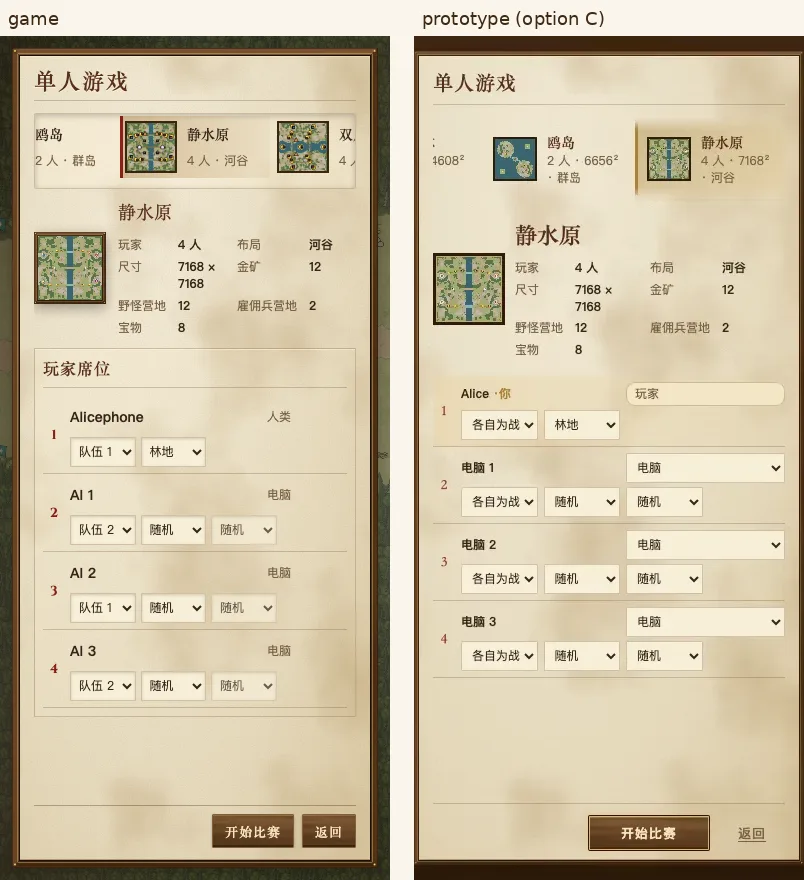
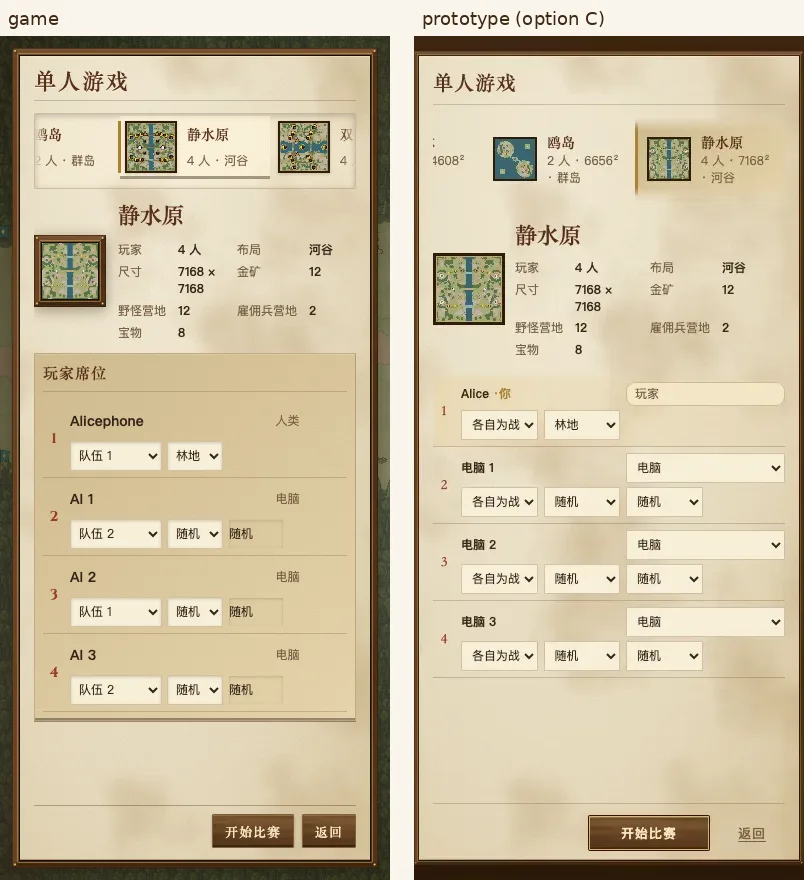
fix(rooms): on a phone the team select has room for 各自为战
Why: Art Lane's capture at 390 wide showed the team select cut off on the seat's second line,
where the four controls shared the width equally.

Fix: the team column takes at least 92px and the larger share, and the ready box a fixed 58px.

Verified: mac1 headless Chromium, production build, 390x844 solo/host/guest. The side-by-side
shots in docs/room-flow/layout-c are recaptured with Art Lane's look layer.

diff --git a/src/client/match-menu.css b/src/client/match-menu.css
@@ -64,7 +64,7 @@
  .map-preview-card { grid-template-columns:72px minmax(0,1fr); }
  .room-setup .room-slot-pane { grid-template-rows:auto minmax(0,1fr); gap:8px; padding:8px; }
  .slot-columns { display:none; }
- .room-setup .slot-row { grid-template-columns:22px repeat(4,minmax(0,1fr)); grid-template-rows:30px 30px; min-height:77px; padding:6px 0; gap:5px; }
+ .room-setup .slot-row { grid-template-columns:22px minmax(92px,1.3fr) minmax(0,1fr) minmax(0,1fr) 58px; grid-template-rows:30px 30px; min-height:77px; padding:6px 0; gap:5px; }
  .slot-row > .slot-index { grid-column:1; grid-row:1 / 3; }
  .slot-row > .slot-name { grid-column:2 / 4; grid-row:1; }
  .slot-row > :is(.slot-controller-badge,[data-slot-controller]) { grid-column:4 / 6; grid-row:1; }
